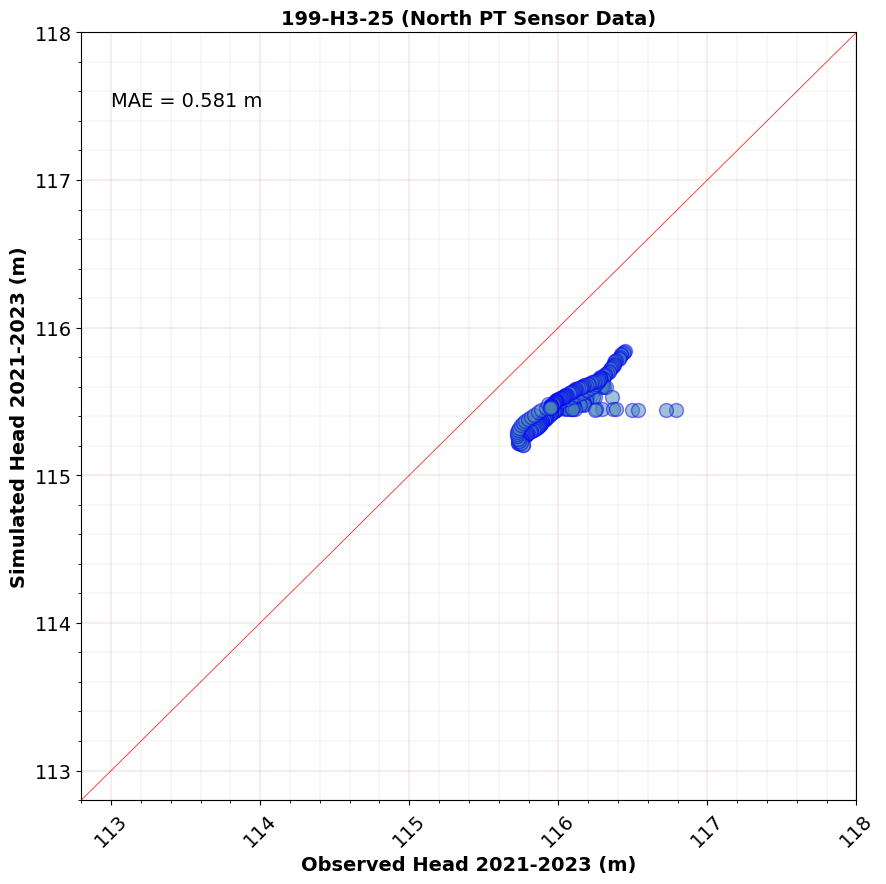
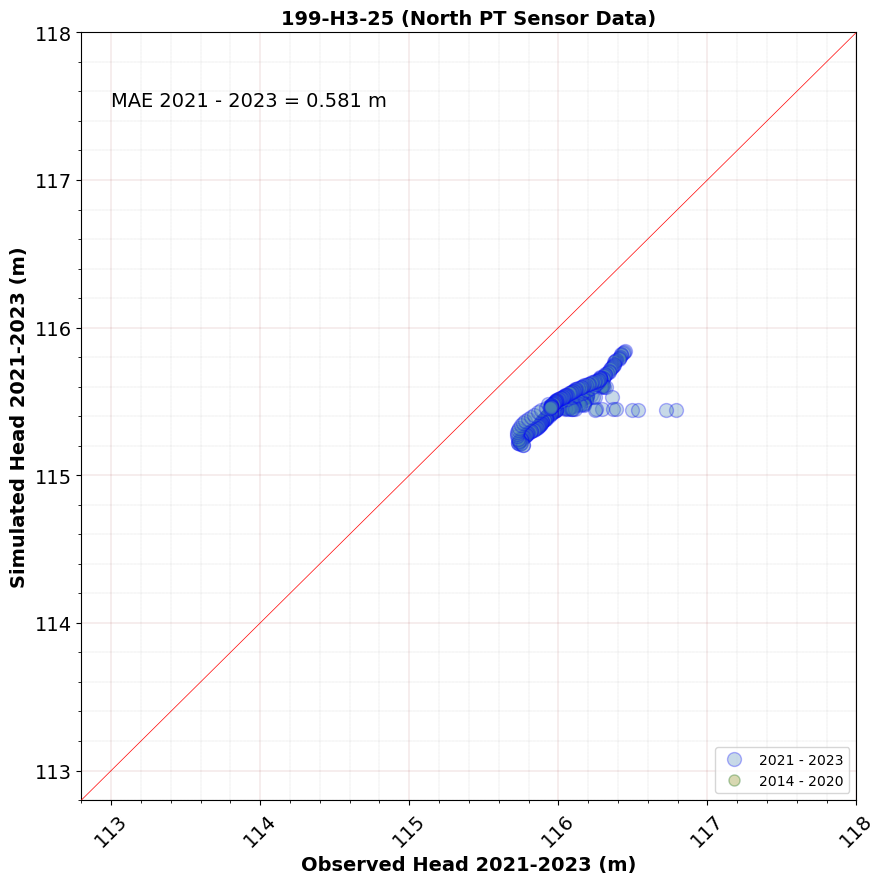
updates to py21, daily scatter and residual plots, output QA'd

Changed region(s): [[0.579, 0.3971, 0.7923, 0.5192], [0.1828, 0.0916, 0.4266, 0.1222], [0.8228, 0.8552, 0.9752, 0.8857]]

diff --git a/scripts/py21_concentration_vs_WLs.py b/scripts/py21_concentration_vs_WLs.py
@@ -19,7 +19,7 @@ from sklearn.metrics import mean_absolute_error,  mean_squared_error, r2_score
 plt.rc('xtick', labelsize=14)
 plt.rc('ytick', labelsize=14)
 
-def plot_WL_vs_conc(wl_meas, crvi_meas_1, crvi_meas_2, wl_df, conc_df):
+def plot_WL_vs_conc(wl_meas, crvi_meas_2014, crvi_meas_2021, wl_df, conc_df):
 
     """
     Plot concentration data of interest against water levels in one graph.
@@ -39,9 +39,9 @@ def plot_WL_vs_conc(wl_meas, crvi_meas_1, crvi_meas_2, wl_df, conc_df):
         toplot_wl = wl_df[wl_df['NAME'] == well]  ## match to the correct input when function is called
         toplot_crvi = conc_df[conc_df['NAME'] == well] ## match to the correct input when function is called
 
-        cr1 = crvi_meas_1.loc[crvi_meas_1['SAMP_SITE_NAME'] == well]  ## match to the correct input when function is called
+        cr1 = crvi_meas_2014.loc[crvi_meas_2014['SAMP_SITE_NAME'] == well]  ## match to the correct input when function is called
         try:
-            cr2 = crvi_meas_2.loc[crvi_meas_2['NAME'] == well] ## match to the correct input when function is called
+            cr2 = crvi_meas_2021.loc[crvi_meas_2021['NAME'] == well] ## match to the correct input when function is called
         except:
             pass
         wl1 = wl_meas[wl_meas['ID'] == well]
@@ -94,14 +94,14 @@ def plot_WL_vs_conc(wl_meas, crvi_meas_1, crvi_meas_2, wl_df, conc_df):
 
     return None
 
-def crossplots_WL_individual(wls_obs, wls_sim, mode):
+def crossplots_WL_individual(wls_obs, wls_obs2, wls_sim, mode):
 
     """
     Generates a crossplot of simulated vs observed water levels (or other variable of interest)
     at discrete time points.
     """
-    plt.rc('xtick', labelsize=14)
-    plt.rc('ytick', labelsize=14)
+    # plt.rc('xtick', labelsize=14)
+    # plt.rc('ytick', labelsize=14)
 
     outputDir = os.path.join(cwd, 'output', 'water_level_plots', 'crossplots')
     if not os.path.isdir(outputDir):
@@ -110,19 +110,8 @@ def crossplots_WL_individual(wls_obs, wls_sim, mode):
         # print(well)
         ## set data to be plotted
         mywell_obs = wls_obs[wls_obs['ID'] == well]  ## 2021 - 2023
-        mywell_obs2 = wls_obs2[wls_obs2['NAME'] == well]  ## 2014 -2020
-        mywell_sim = wls_sim[wls_sim['NAME'] == well]
-
-        # for n, lay in enumerate(['Unconfined Aq.']):  ## add in RUM if necessary: enumerate(['Unconfined Aq.', 'RUM-2'])
-        #     if lay == 'Unconfined Aq.':
-        #         temp = wls_sim[(wls_sim['NAME'] == well) & (wls_sim['Layer'] <= 4)]
-        #         mywell_sim = temp.groupby(['DATE']).agg({'Head': 'mean'}).reset_index()
-        #         mywell_sim['Layer'] = lay
-        #         mywell_sim.set_index('DATE', inplace=True)
-        #     elif lay == 'RUM-2':
-        #         mywell_sim = wls_sim[(wls_sim['NAME'] == well) & (wls_sim['Layer'] == 9)]
-        #         mywell_sim['Layer'] = lay
-        #         mywell_sim.set_index('DATE', inplace=True)
+        mywell_obs2 = wls_obs2[wls_obs2['NAME'] == well]  ## 2014 - 2020
+        mywell_sim = wls_sim[wls_sim['NAME'] == well]  ## extended model covers 2014 - 2023
 
         toplot = pd.merge(mywell_obs, mywell_sim, left_index=True, right_index=True, how="inner")
         toplot.rename(columns={"Head": "Simulated", "Water Level (m)": "Observed"}, inplace=True)
@@ -133,13 +122,13 @@ def crossplots_WL_individual(wls_obs, wls_sim, mode):
         toplot2.dropna(subset=["Observed"], inplace=True)
 
         fig, ax = plt.subplots(figsize=(10, 10))
-        ax.plot(toplot['Observed'], toplot['Simulated'], 'o', markerfacecolor="steelblue", markeredgecolor='blue',
-                markeredgewidth=1,markersize=10, alpha =0.5, zorder=1)
+        ax.plot(toplot['Observed'], toplot['Simulated'], 'o', markerfacecolor="steelblue", markeredgecolor='blue', markeredgewidth=1,
+                markersize=10, alpha =0.3, zorder=1, label = '2021 - 2023')
         try:
-            ax.plot(toplot2['Observed'], toplot2['Simulated'], 'o', markerfacecolor="olive", markeredgecolor='darkgreen',
-                markeredgewidth=1,markersize=10, alpha =0.5, zorder=1)
+            ax.plot(toplot2['Observed'], toplot2['Simulated'], 'o', markerfacecolor="olive", markeredgecolor='darkgreen', markeredgewidth=1,
+                markersize=8, alpha =0.3, zorder=1, label = '2014 - 2020')
         except:
-            print(f"{well} not found in 2014-2020 observations")
+             print(f"{well} not found in 2014-2020 observations")
         ax.plot([0, 1], [0, 1], color='red', linewidth=0.5, transform=ax.transAxes, zorder=10)
 
         ## conditional title color
@@ -160,14 +149,21 @@ def crossplots_WL_individual(wls_obs, wls_sim, mode):
         ax.grid(which='minor', linestyle=':',
                 linewidth='0.1', color='black')
         plt.xticks(rotation=45)
+        ax.legend(loc="lower right")
 
         ### Add Statistics
         # r2 = r2_score(toplot['Observed'], toplot["Simulated"]).round(3)  # r2:coefficient of determination
-        mae = mean_absolute_error(toplot["Observed"], toplot["Simulated"]).round(3)
+        mae_2021 = mean_absolute_error(toplot["Observed"], toplot["Simulated"]).round(3)
+        ax.text(113, 117.5, f'MAE 2021 - 2023 = {mae_2021} m', fontsize=14)
         # ax.text(113, 117.75, '$\mathregular{r^2}$ = ' + str(r2), fontsize=14)
-        ax.text(113, 117.5, f'MAE = {mae} m', fontsize=14)
 
-        plt.savefig(os.path.join(outputDir, f'{well}_{mode}_v2.png'), bbox_inches='tight')
+        try:
+            mae_2014 = mean_absolute_error(toplot2["Observed"], toplot2["Simulated"]).round(3)
+            ax.text(113, 117.2, f'MAE 2014 - 2020 = {mae_2014} m', fontsize=14)
+        except:
+            pass
+
+        plt.savefig(os.path.join(outputDir, f'{well}_{mode}.png'), bbox_inches='tight')
         plt.close()
         print("Done")
     return None
@@ -222,7 +218,7 @@ def crossplots_WL_subplots(wls_obs, wls_obs2, wls_sim, wls_sim2):
                 print("Idx: ",idx)
                 if idx == 0:
                     mywell_obs = wls_obs.loc[wls_obs['ID'] == well]
-                    wls_sim.index = wls_sim["DATE"]
+                    # wls_sim.index = wls_sim["DATE"]
                     mywell_sim = wls_sim[wls_sim['NAME'] == well]
                     toplot = pd.merge(mywell_obs, mywell_sim, left_index=True, right_index=True, how="inner")
                     toplot.rename(columns={"Head": "Simulated", "Water Level (m)": "Observed"}, inplace=True)
@@ -295,6 +291,7 @@ def crossplots_WL_subplots(wls_obs, wls_obs2, wls_sim, wls_sim2):
             else:
                 pass
         fig.tight_layout()
+
         plt.savefig(os.path.join(outputDir, f'grp{val+1}_V5.png'), bbox_inches='tight', dpi=600)
 
         plt.close()
@@ -302,7 +299,7 @@ def crossplots_WL_subplots(wls_obs, wls_obs2, wls_sim, wls_sim2):
 
     return None
 
-def calculate_plot_residuals_individual(wls_obs, wls_obs2, wls_sim):
+def residualplots_WL_individual(wls_obs, wls_obs2, wls_sim):
 
     outputDir = os.path.join(cwd, 'output', 'water_level_plots', 'residual_plots')
     if not os.path.isdir(outputDir):
@@ -327,10 +324,10 @@ def calculate_plot_residuals_individual(wls_obs, wls_obs2, wls_sim):
 
         fig, ax = plt.subplots(figsize=(10, 10))
         ax.plot(toplot['Observed'], toplot['Error'], 'o', markerfacecolor="steelblue", markeredgecolor='blue',
-                markeredgewidth=1, markersize=10, alpha=0.3, zorder = 2, label="2021 to 2023")
+                markeredgewidth=1, markersize=10, alpha=0.5, zorder = 2, label="2021 to 2023")
         ax.plot(toplot2['Observed'], toplot2['Residual'], 'o', markerfacecolor="olive",
                     markeredgecolor='darkgreen',
-                    markeredgewidth=1, markersize=10, alpha=0.3, zorder = 2, label="2014 to 2020")
+                    markeredgewidth=1, markersize=8, alpha=0.3, zorder = 2, label="2014 to 2020")
         ax.axhline(y=0, color='r', linestyle='-', zorder = 1)
 
         ## conditional title color
@@ -352,9 +349,9 @@ def calculate_plot_residuals_individual(wls_obs, wls_obs2, wls_sim):
                 linewidth='0.1', color='black')
         ax.legend(loc="lower right")
 
-        plt.savefig(os.path.join(outputDir, f'{well}_daily_v0.png'), bbox_inches='tight', dpi=600)
+        plt.savefig(os.path.join(outputDir, f'{well}_daily.png'), bbox_inches='tight', dpi=600)
 
-def calculate_plot_residuals(wls_obs, wls_obs2, wls_sim, wls_sim2):
+def residualplots_WL_subplots(wls_obs, wls_obs2, wls_sim):
 
     """
     Note that the statistical definition of residuals is the difference between actual and fitted values.
@@ -400,46 +397,30 @@ def calculate_plot_residuals(wls_obs, wls_obs2, wls_sim, wls_sim2):
         for i, well in enumerate(grp):
             ax = axes[i]
             print("Well: ", well)
-            flag = "True"
-            # for idx in range(2):
-            #     print("Idx: ", idx)
-            #     ## when idx == 0, plot 2021 - 2023
-            #     if idx == 0:
             mywell_obs = wls_obs.loc[wls_obs['ID'] == well]
-            wls_sim.index = wls_sim["DATE"]
+           # wls_sim.index = wls_sim["DATE"]
             mywell_sim = wls_sim[wls_sim['NAME'] == well]
             toplot = pd.merge(mywell_obs, mywell_sim, left_index=True, right_index=True, how="inner")
             toplot.rename(columns={"Head": "Simulated", "Water Level (m)": "Observed"}, inplace=True)
             toplot.dropna(subset=["Observed"], inplace=True)
             toplot['Error'] = toplot['Observed'] - toplot['Simulated']
-            # elif idx == 1:
-            try:
-                mywell_sim2 = wls_sim2[wls_sim2['Well'] == well]
-                #mywell_sim = wls_sim[wls_sim['Well'] == well]
-                mywell_obs2 = wls_obs2.loc[wls_obs2['NAME'] == well]
-                toplot2 = pd.merge(mywell_obs2, mywell_sim2, on="Time", how="inner")
-                toplot2.rename(columns={"Head": "Simulated", "VAL": "Observed"}, inplace=True)
-                toplot2.dropna(subset=["Observed"], inplace=True)
-                toplot2['Residual'] = toplot2['Observed'] - toplot2['Simulated']
-                print("Found: ", well, len(toplot2))
-                if len(toplot2) == 0:
-                    flag = "NA"
-            except:
-                print(f"{well} not found in 2014-2020 observations from MPR")
-                flag = "NA"
-                print("Not Found: ", well, len(toplot2))
+            mywell_sim2 = wls_sim[wls_sim['NAME'] == well]  ## using the extended model results (works for daily and monthly)
+            mywell_obs2 = wls_obs2.loc[wls_obs2['NAME'] == well]
+            toplot2 = pd.merge(mywell_obs2, mywell_sim2, left_index=True, right_index=True, how="inner")
+            toplot2.rename(columns={"Head": "Simulated", "VAL": "Observed"}, inplace=True)
+            toplot2.dropna(subset=["Observed"], inplace=True)
+            toplot2['Residual'] = toplot2['Observed'] - toplot2['Simulated']
+            print("Found: ", well, len(toplot2))
 
-        # if idx == 0:
             ax.plot(toplot['Observed'], toplot['Error'], 'o', markerfacecolor="steelblue",
                     markeredgecolor='blue',
-                    markeredgewidth=1, markersize=10, alpha=0.5, zorder=9, label="2021 to 2023")
-            ax.axhline(y=0, color='r', linestyle='-')
-        # elif idx == 1 and (flag != "NA"):
+                    markeredgewidth=1, markersize=10, alpha=0.5, zorder=2, label="2021 to 2023")
+            ax.axhline(y=0, color='r', linestyle='-', zorder = 1)
+
             try:
                 ax.plot(toplot2['Observed'], toplot2['Residual'], 'o', markerfacecolor="olive",
                         markeredgecolor='darkgreen',
-                        markeredgewidth=1, markersize=10, alpha=0.5, zorder=8, label="2014 to 2020")
-                # plt.axhline(y=0, color='r', linestyle='-')
+                        markeredgewidth=1, markersize=8, alpha=0.3, zorder=2, label="2014 to 2020")
             except:
                 print("Not Found: ", well, len(toplot2))
 
@@ -454,7 +435,7 @@ def calculate_plot_residuals(wls_obs, wls_obs2, wls_sim, wls_sim2):
             ax.set_xlabel('Observed (m)', fontsize=14)
             ax.label_outer()
             ax.set_xlim([112.8, 118])
-            ax.set_ylim(-2,2)
+            ax.set_ylim(-3,3)
 
             ax.minorticks_on()
             ax.grid(which='major', linestyle='-',
@@ -472,15 +453,15 @@ def calculate_plot_residuals(wls_obs, wls_obs2, wls_sim, wls_sim2):
                 pass
         fig.tight_layout()
 
-        # plt.savefig(os.path.join(outputDir, f'grp{val+1}_deviations_daily_test.png'), bbox_inches='tight', dpi=600)
+        plt.savefig(os.path.join(outputDir, f'grp{val+1}_deviations_daily.png'), bbox_inches='tight', dpi=600)
 
-        # plt.close()
+        plt.close()
         print("Done")
     return None
 
 if __name__ == "__main__":
 
-    ### SET FILE DIRECTORIES
+    ### SET FILE DIRECTORIES ###
     cwd = os.getcwd()
 
     mdir = os.path.join(os.path.dirname(cwd), 'mruns')
@@ -491,44 +472,41 @@ if __name__ == "__main__":
     wells = pd.read_csv(os.path.join(cwd, 'input', 'monitoring_wells_coords_ij.csv'))
     calibwells = pd.read_csv(os.path.join(cwd, 'input', 'well_list_v3_for_calibration.csv'))
 
-    ### SET WELL NAME ASSOCIATIONS
+    ### SET WELL NAME ASSOCIATIONS ###
     wellDict = {'199-H3-25': "North PT Sensor Data", '199-H3-26': "North PT Sensor Data", '199-H3-27': "North PT Sensor Data", '199-H3-2A': "North AWLN", '199-H4-12A': "North Manual",
      '199-H4-15A': "North Manual", '199-H4-17': "North PT Sensor Data", '199-H4-18': "North Manual", '199-H4-4': "North PT Sensor Data", '199-H4-5': "North AWLN",
      '199-H4-64': "North Manual", '199-H4-65': "North Manual", '199-H4-8': "North AWLN", '199-H4-84': "North AWLN", '199-H4-85': "North Manual",
-     '199-H4-86': "North PT Sensor Data", '199-H4-88': "North AWLN", '199-H4-89': "North Manual" }
+     '199-H4-86': "North PT Sensor Data", '199-H4-88': "North AWLN", '199-H4-89': "North Manual"}
 
     ### IMPORT FILES ###
 
-    ## Simulated WL, 2014 to 2023 [MONTHLY/SPs], using FLOPY
-    # wls_sim_SP = pd.read_csv(os.path.join(wldir, 'calib_2014_2023', 'simulated_heads_monthly_flopy.csv'))
-    # wls_sim_SP['DATE'] = pd.to_datetime("2014-01-01") + pd.to_timedelta(wls_sim_SP.Time, unit="days")
-
     ### WATER LEVELS
     ### Observed WL for 2021 to 2023:
-    wl_meas = pd.read_csv(os.path.join(wldir, 'obs_2021_2023', 'measured_WLs_monthly.csv'), index_col='Date', parse_dates=True)
+    wl_meas_monthly = pd.read_csv(os.path.join(wldir, 'obs_2021_2023', 'measured_WLs_monthly.csv'), index_col='Date', parse_dates=True)
     wl_meas_daily = pd.read_csv(os.path.join(wldir, 'obs_2021_2023', 'measured_WLs_daily.csv'), index_col='Date', parse_dates=True)
 
-    ### Monthly WL for 2014 to 2020, from original calibration model:
+    ### Monthly WL (obs and sim) for 2014 to 2020, from original calibration model:
     wl_2014 = pd.read_csv(os.path.join(wldir, "calib_2014_2020", "calib_2014to2020_obs_sim.csv")) ###monthly/SP-averaged
     wl_meas_2014 = wl_2014[["Well", "Time", "Observed"]]
     wl_sim_2014 = wl_2014[["Well", "Time", "Simulated"]]
 
-    ### Daily raw WL data for 2014 to 2020
+    ### Daily obs raw WL data for 2014 to 2020
     ### extracted from S:\AUS\CHPRC.C003.HANOFF\Rel.044\045_100AreaPT\d01_CY2021_datapack\0_Data\Water_Level_Data\DataPull_020222
     wl_meas_2014_daily = pd.read_csv(os.path.join(cwd, wldir, 'obs_2014_2020', 'measured_WLs_2014to2020_daily.csv'))
     wl_meas_2014_daily['EVENT'] = pd.to_datetime(wl_meas_2014_daily['EVENT']).dt.normalize()
     wl_meas_2014_daily.rename(columns={'EVENT':'DATE'}, inplace=True)
     wl_meas_2014_daily.set_index('DATE', inplace=True)
 
-    ## MOD2OBS monthly:
-    wls_sim_SP = pd.read_csv(os.path.join(wldir, 'calib_2014_2023', 'simulated_heads_monthly.dat'), delimiter=r"\s+", names = ["ID", "Date", "Time", "Head"])
+    ## MOD2OBS simulated WL monthly extended model:
+    wls_sim_SP = pd.read_csv(os.path.join(wldir, 'calib_2014_2023', 'simulated_heads_monthly.dat'),
+                             delimiter=r"\s+", names = ["ID", "Date", "Time", "Head"])
     wls_sim_SP["NAME"] = "199-" + wls_sim_SP["ID"].str.strip().str[:-3]  # monitoring wells
     wls_sim_SP["Layer"] = wls_sim_SP["ID"].str.strip().str[-1].astype(int)
     # wls_sim_SP = wls_sim_SP.loc[wls_sim_SP.Layer == 1]
     wls_sim_SP['Date'] = pd.to_datetime(wls_sim_SP['Date'])
     wls_sim_SP.rename(columns={"Date": "DATE"}, inplace=True)
 
-    ### MOD2OBS daily: Simulated WL, 2014 to 2023 [DAILY]: Daily simulated values from mod2obs require a bit more data wrangling.
+    ### MOD2OBS simulated WL daily extended model:
     wls_sim_daily = pd.read_csv(os.path.join(wldir, 'calib_2014_2023', 'simulated_heads_daily.dat'), delimiter=r"\s+", names = ["ID", "Date", "Time", "Head"])
     wls_sim_daily["NAME"] = "199-" + wls_sim_daily["ID"].str.strip().str[:-3]  # monitoring wells
     wls_sim_daily["Layer"] = wls_sim_daily["ID"].str.strip().str[-1].astype(int)
@@ -537,39 +515,47 @@ if __name__ == "__main__":
     wls_sim_daily.rename(columns={"Date": "DATE"}, inplace=True)
     # wls_sim_daily.set_index('DATE', inplace=True)
 
-    ### CONCENTRATIONS
-    ## Simulated CONC, 2014 to 2023:
+    ### CONCENTRATIONS ###
+    
+    ## Simulated CONC, 2014 to 2023 extended model:
     crvi_ifile = os.path.join(mdir, 'calib_2014_2023', f'tran_2014_2023', 'post_process',
                               'mod2obs_monitoring_wells', 'simulated_conc_mod2obs.csv')
     crvi_sim = pd.read_csv(crvi_ifile)
     crvi_sim.rename(columns={'SAMP_SITE_NAME':'NAME','SAMP_DATE':'DATE'}, inplace = True)
 
     ### Observed CONC for 2014 to 2021, and 2021 - 2023:
-    crvi_meas_1 = pd.read_csv(os.path.join(chemdir, '2014to2020', 'Cr_obs_avg_bySPs.csv'), index_col = 'SAMP_DATE', parse_dates = True)
-    crvi_meas_2 = pd.read_csv(os.path.join(chemdir, '2021to2023', 'Cr_obs.csv'), index_col = 'DATE', parse_dates = True)
+    crvi_meas_2014 = pd.read_csv(os.path.join(chemdir, '2014to2020', 'Cr_obs_avg_bySPs.csv'), index_col = 'SAMP_DATE', parse_dates = True)
+    crvi_meas_2021 = pd.read_csv(os.path.join(chemdir, '2021to2023', 'Cr_obs.csv'), index_col = 'DATE', parse_dates = True)
 
     mode = "daily"
     if mode == "monthly":
-        wls_obs = wl_meas #averaged by SP = monthly
+        wls_obs = wl_meas_monthly #averaged by SP = monthly
         wls_obs2 = wl_meas_2014
         wls_sim = wls_sim_SP
         wls_sim2 = wl_sim_2014
     if mode == "daily":
         wls_obs = wl_meas_daily
-        wls_sim = wls_sim_daily
         wls_obs2 = wl_meas_2014_daily
-        wls_sim2 = wl_sim_2014
+        wls_sim = wls_sim_daily
+        # wls_sim2 = wl_sim_2014
 
     ## If we want to use average WL or max concentration of layers, group here:
     group = True
+    ## + when rum2 wells are included in analysis
+    rum2 = False
     if group:
-        temp = wls_sim[wls_sim['Layer'] <= 4]
-        mywell_sim = temp.groupby(['DATE', 'NAME']).agg({'Head': 'mean'}).reset_index()
-        mywell_sim['Layer'] = 'Unconfined Aq.'
-        # mywell_sim2 = wls_sim[wls_sim['Layer'] == 9]
-        # mywell_sim2['Layer'] = 'RUM-2'
-        wls_sim = mywell_sim ## todo integrate conditional RUM-2 statement
-        # wls_sim = pd.concat([mywell_sim, mywell_sim2])[['DATE', 'NAME', 'Head', 'Layer']]
+        if rum2:
+            temp = wls_sim[wls_sim['Layer'] <= 4]
+            mywell_sim = temp.groupby(['DATE', 'NAME']).agg({'Head': 'mean'}).reset_index()
+            mywell_sim['Layer'] = 'Unconfined Aq.'
+            mywell_sim2 = wls_sim[wls_sim['Layer'] == 9]
+            mywell_sim2['Layer'] = 'RUM-2'
+            wls_sim = pd.concat([mywell_sim, mywell_sim2])[['DATE', 'NAME', 'Head', 'Layer']]
+        else:
+            temp = wls_sim[wls_sim['Layer'] <= 4]
+            mywell_sim = temp.groupby(['DATE', 'NAME']).agg({'Head': 'mean'}).reset_index()
+            mywell_sim['Layer'] = 'Unconfined Aq.'
+            wls_sim = mywell_sim
     else:
         wls_sim = wls_sim
     wls_sim.set_index('DATE', inplace=True)
@@ -577,12 +563,33 @@ if __name__ == "__main__":
     ### PLOTTING
 
     ## Plot WLs and CONCs:
-    # plot_WL_vs_conc(wl_meas, crvi_meas_1, crvi_meas_2, wls_sim_SP, crvi_sim)
+    # plot_WL_vs_conc(wl_meas, crvi_meas_2014, crvi_meas_2021, wls_sim_SP, crvi_sim)
 
     ### Plot WLs scatterplots:
-    #crossplots_WL_individual(wls_obs, wls_sim, mode)
+    #crossplots_WL_individual(wls_obs, wls_obs2, wls_sim, mode)
     # crossplots_WL_subplots(wls_obs, wls_obs2, wls_sim, wls_sim2)
 
     ## Plot deviations
-    calculate_plot_residuals_individual(wls_obs, wls_obs2, wls_sim)
-    # calculate_plot_residuals(wls_obs, wls_obs2, wls_sim, wls_sim2)
+    # residualplots_WL_individual(wls_obs, wls_obs2, wls_sim)
+    # residualplots_WL_subplots(wls_obs, wls_obs2, wls_sim)
+
+
+
+### QA
+    ### compare wls from flopy to mod2obs
+
+    ### Simulated WL, 2014 to 2023 [MONTHLY/SPs], using FLOPY
+    # wls_sim_flopy = pd.read_csv(os.path.join(wldir, 'calib_2014_2023', 'simulated_heads_monthly_flopy.csv'))
+    # wls_sim_flopy['DATE'] = pd.to_datetime("2014-01-01") + pd.to_timedelta(wls_sim_flopy.Time, unit="days")
+
+    # for well in wls_sim_flopy['NAME'].unique():
+    #     fig, ax = plt.subplots(figsize=(7,4))
+    #     fplot = wls_sim_flopy[wls_sim_flopy['NAME'] == well]
+    #     mplot = wls_sim_SP[(wls_sim_SP['NAME'] == well) & (wls_sim_SP['Layer'] == 1)]
+    #     ax.plot(fplot['DATE'], fplot['Head'], label = 'flopy')
+    #     ax.plot(mplot['DATE'], mplot['Head'], label = 'mod2obs')
+    #     # ax.scatter(fplot['Head'].iloc[:-1], mplot['Head']) ## scatter
+    #     ax.legend()
+    #     ax.grid()
+    #     plt.title(f'{well}')
+    #     plt.savefig(os.path.join(cwd, 'output', 'water_level_plots', 'flopy_vs_mod2obs', f'{well}_lyr1.png'), bbox_inches='tight', dpi=600)
